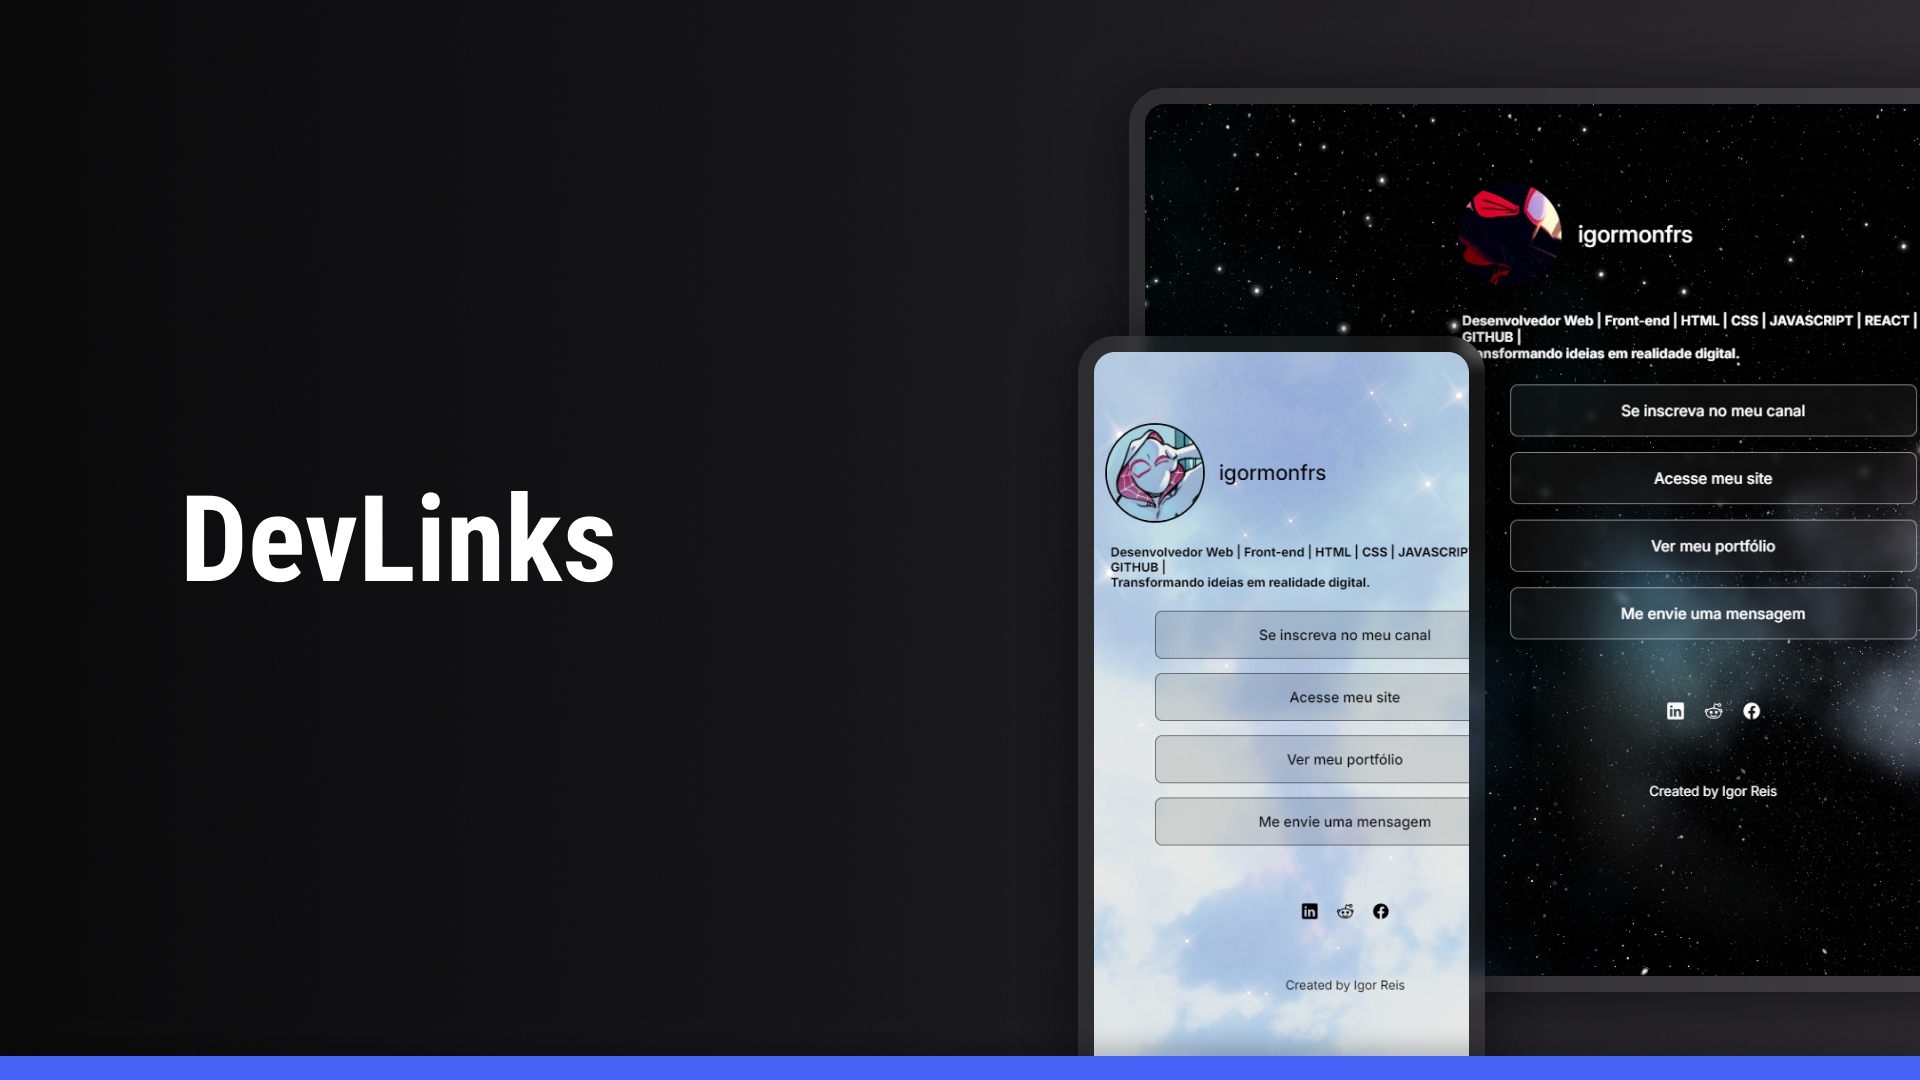
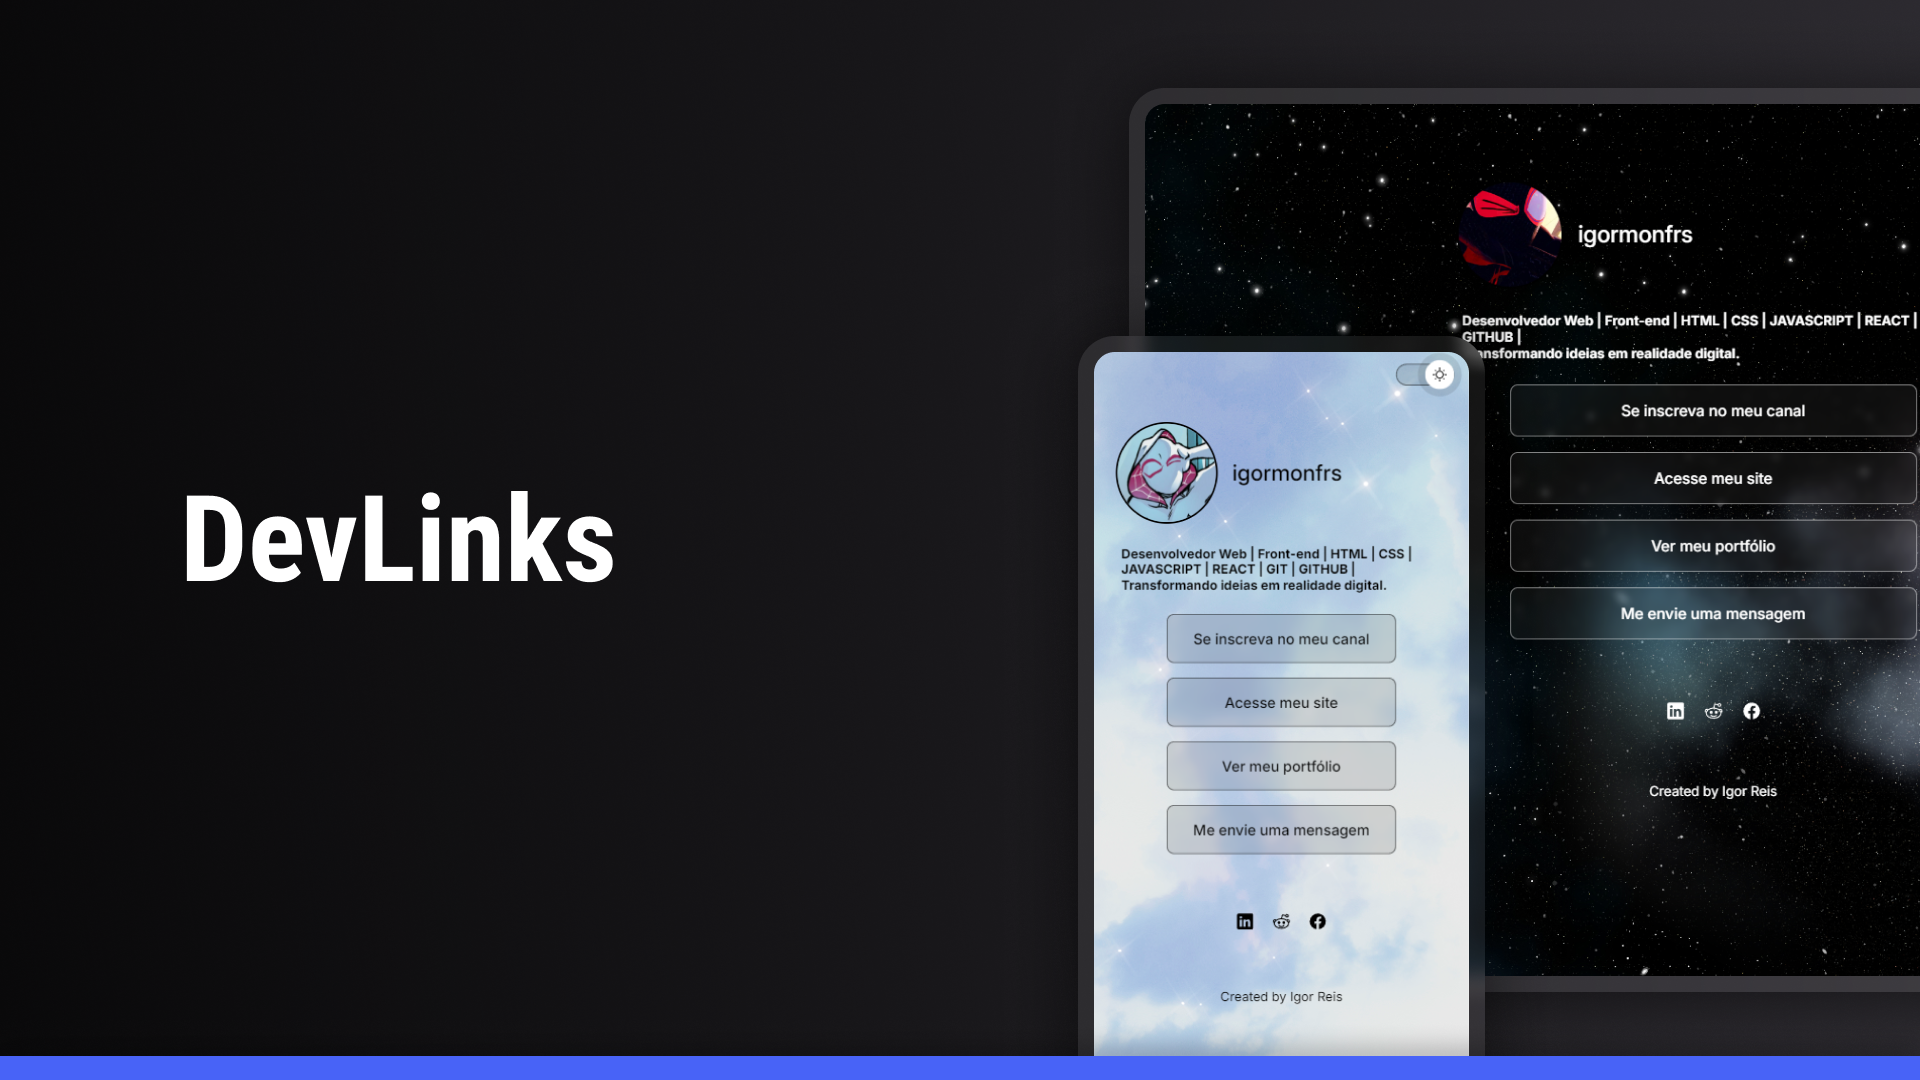
adjust background mobile

Changed region(s): [[0.5625, 0.3667, 0.7812, 0.9778], [0.7188, 0.3361, 0.7812, 0.3667], [0.6875, 0.3667, 0.7188, 0.3972]]

diff --git a/style.css b/style.css
@@ -6,7 +6,7 @@
 
 :root {
   --text-color: white;
-  --bg-url: url(./assets/bg-mobile.jpg);
+  --bg-url: url(./assets/bg-desktop-sky.jpg);
   --stroke-color: rgba(255, 255, 255, 0.5);
   --surface-color: rgba(255, 255, 255, 0.05);
   --surface-color-hover: rgba(0, 0, 0, 0.02);
@@ -16,7 +16,7 @@
 
 .light {
   --text-color: black;
-  --bg-url: url(assets/bg-mobile-light.jpg);
+  --bg-url: url(assets/bg-desktop-bluelight.jpg);
   --stroke-color: rgba(0, 0, 0, 0.5);
   --surface-color: rgba(0, 0, 0, 0.1);
   --surface-color-hover: rgba(0, 0, 0, 0.02);
